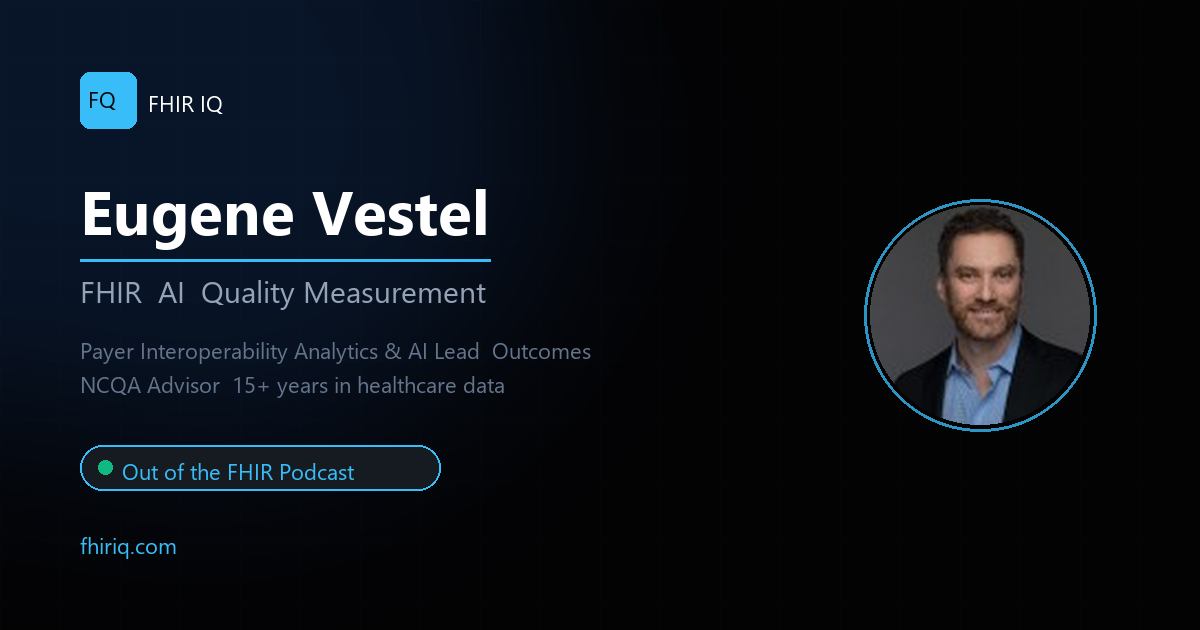
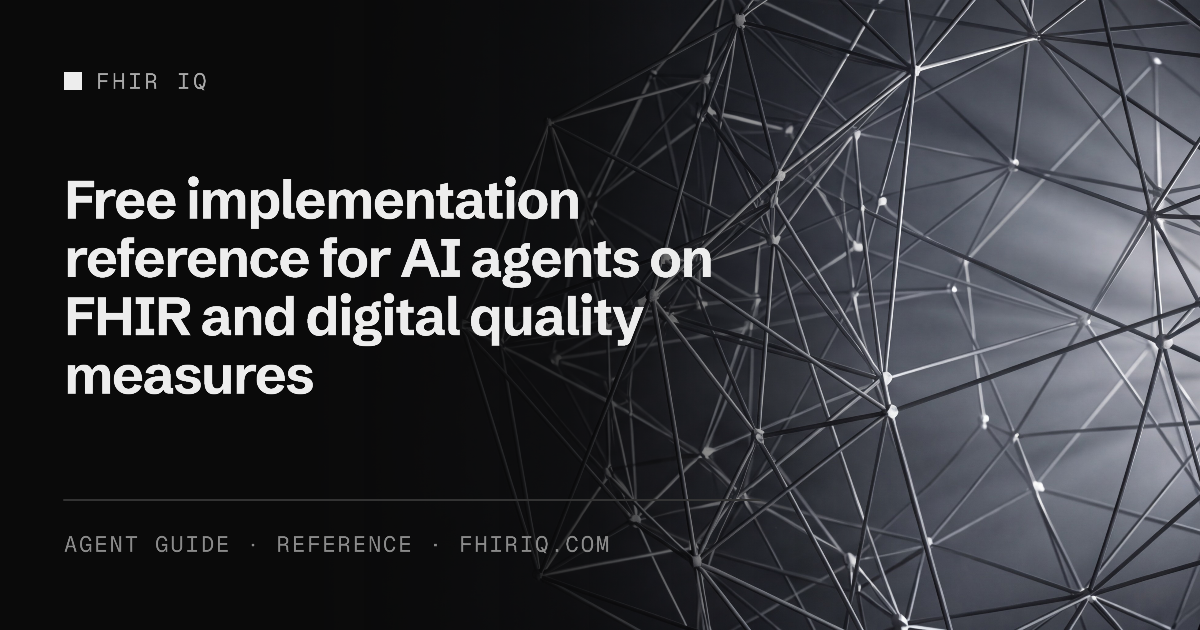
Replace social share image with MONO reference card
The old card named a current employer and called NCQA a current
advisory role, both of which the site no longer states.

Claude-Session: https://claude.ai/code/session_01TnDdLnzm8598Am4RthoyaY

diff --git a/src/app/layout.tsx b/src/app/layout.tsx
@@ -82,7 +82,7 @@ export const metadata: Metadata = {
     title: "FHIR IQ — Eugene Vestel",
     description:
       "Free implementation reference for AI agents on FHIR and digital quality measures.",
-    images: [{ url: "/og-image.png", width: 1200, height: 630, alt: "FHIR IQ — Eugene Vestel" }],
+    images: [{ url: "/og-image.png", width: 1200, height: 630, alt: "FHIR IQ: free implementation reference for AI agents on FHIR and digital quality measures" }],
   },
   twitter: {
     card: "summary_large_image",
